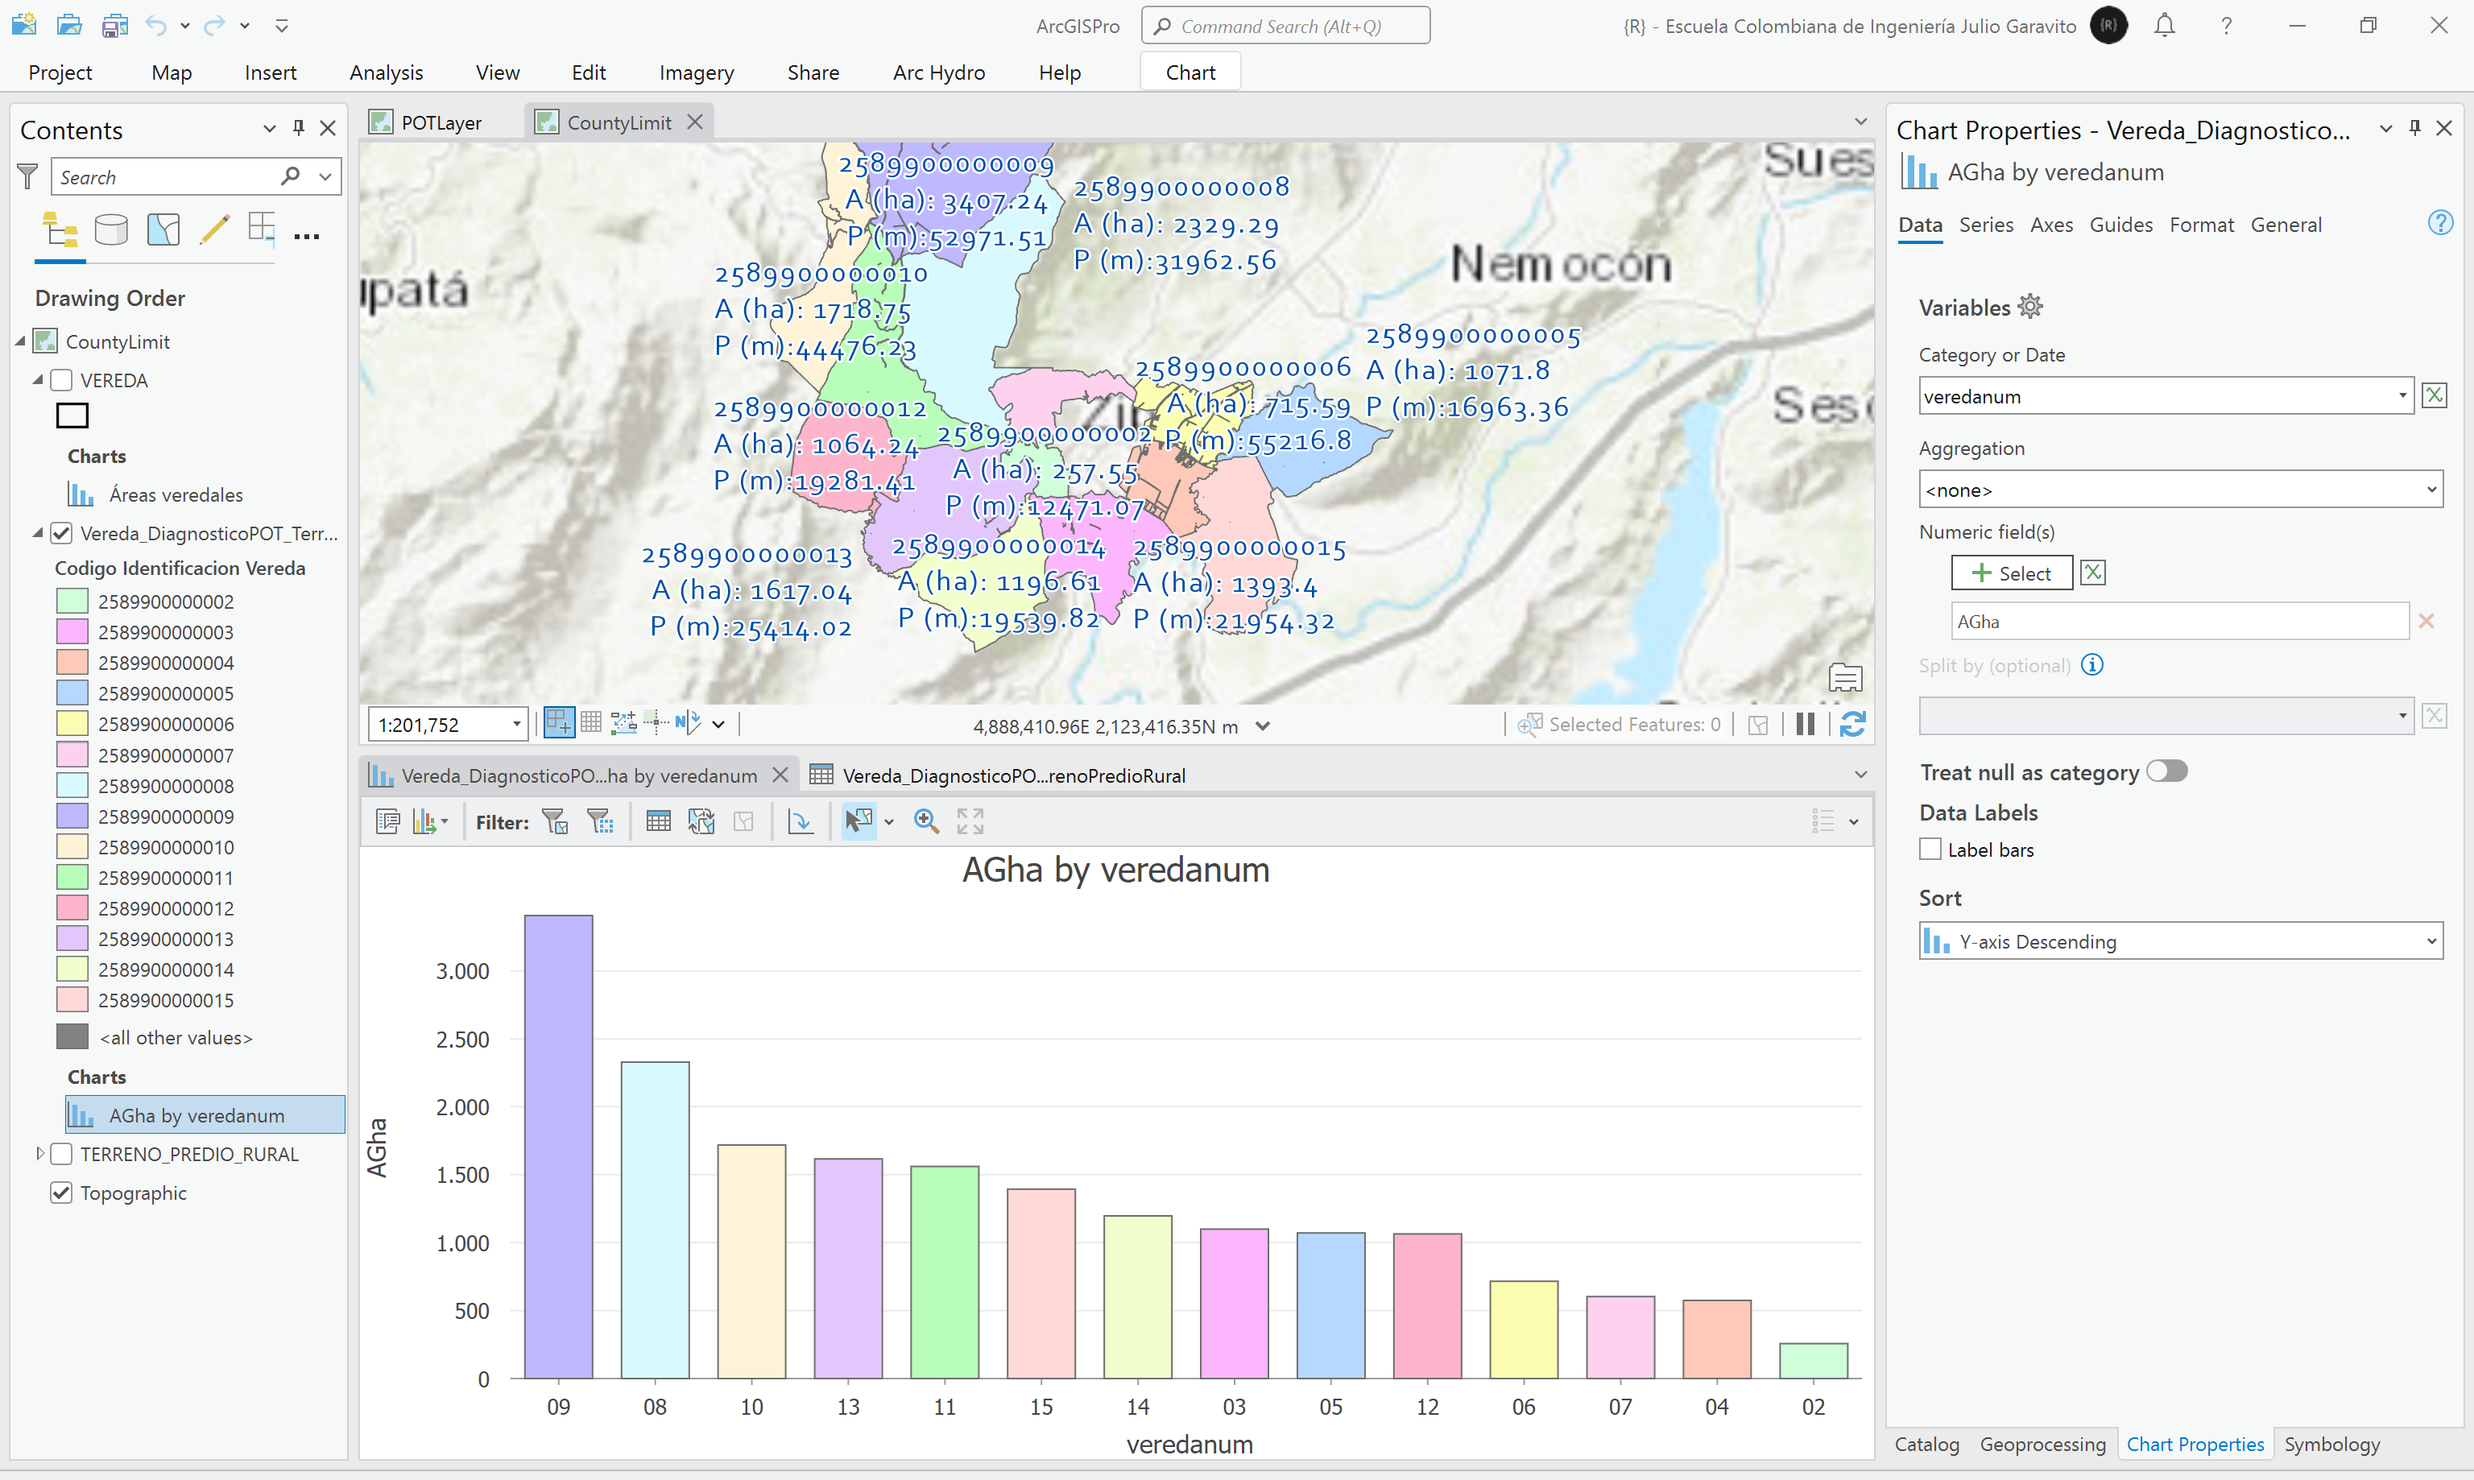
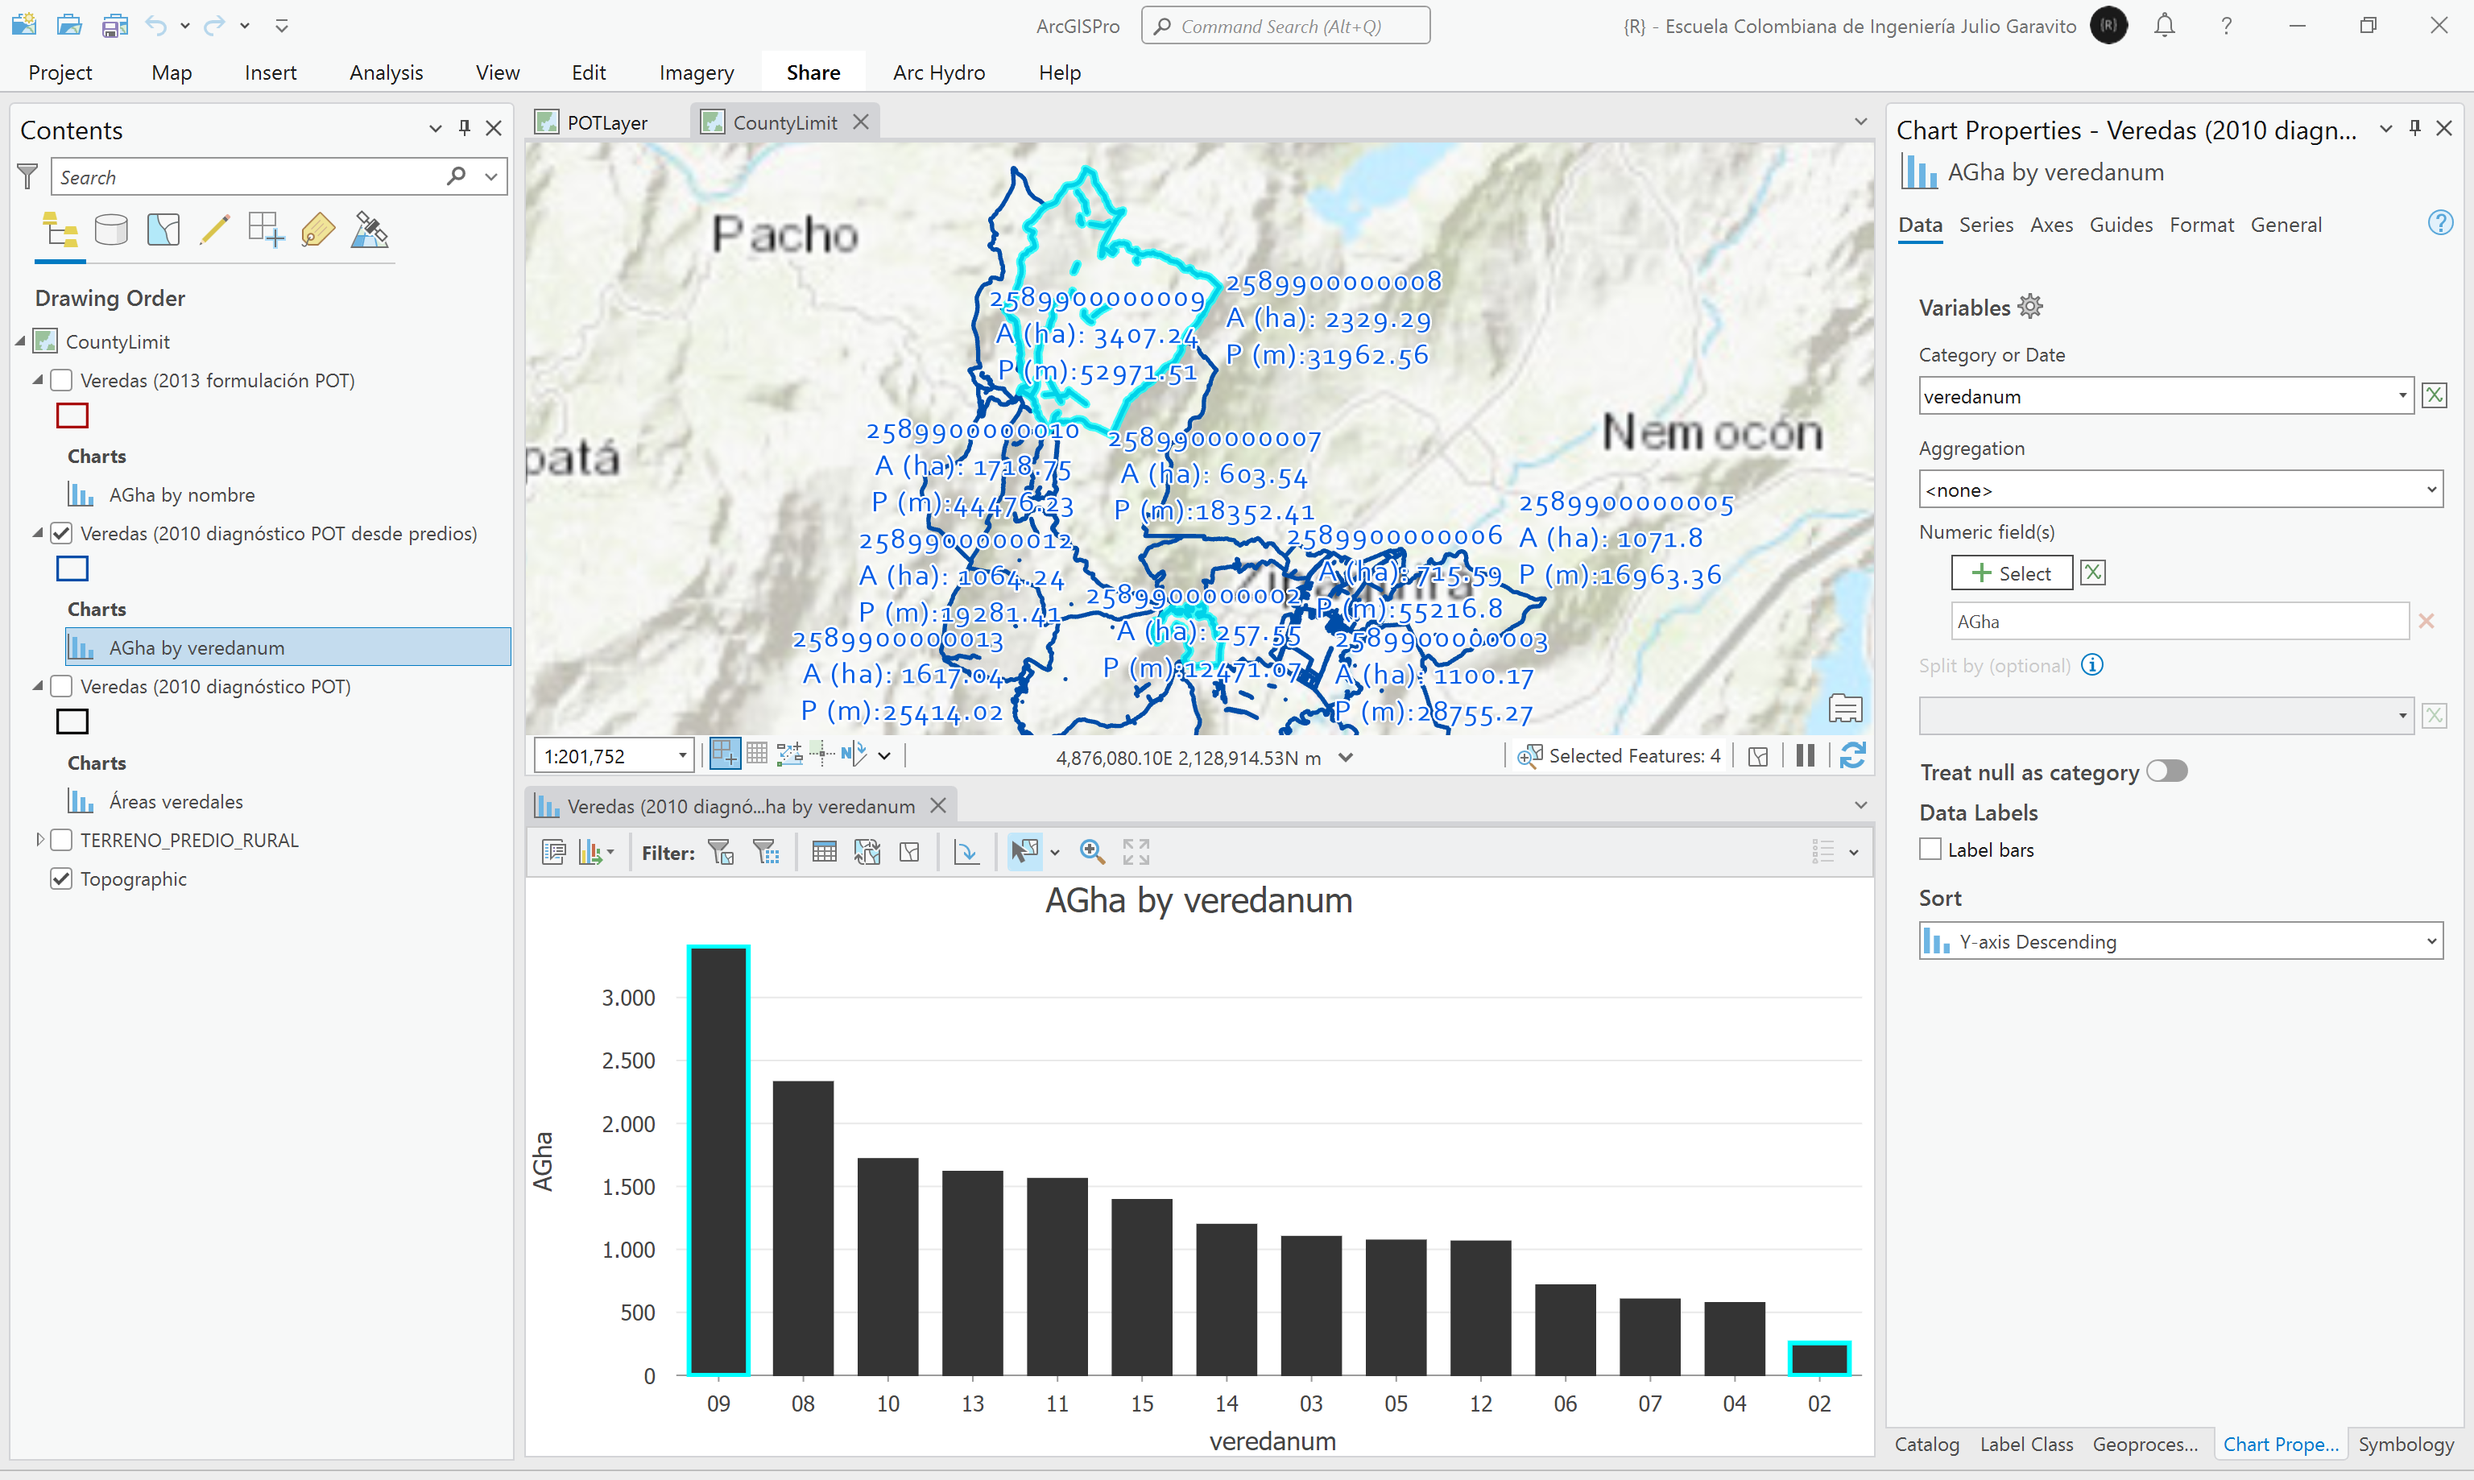
General update.

diff --git a/activity/CountyLimit/Readme.md b/activity/CountyLimit/Readme.md
@@ -88,7 +88,7 @@ Incluya un campo adicional tipo entero largo con el nombre `Nodos` y desde el ed
 | JScript  | `[nombre] + "\nA (ha): " + parseFloat([AGha]).toFixed(2) + "\nP (m):" + parseFloat([PGm]).toFixed(2)`                                           |
 
 
-<div align="center"><img src="graph/ArcGISPro_TableLabelAdvanced1.png" alt="R.SIGE" width="100%" border="0" /></div>
+<div align="center"><img src="graph/ArcGISPro_LabelAdvanced1.png" alt="R.SIGE" width="100%" border="0" /></div>
 
 8. En el panel lateral *Contents*, de clic derecho en _VEREDA_ y seleccione la opción _Create Chart / Bar Chart_, cree una gráfica en orden descendente para los valores de área geográfica, podrá observar que la vereda Páramo de Guerrero es la de mayor extensión.
 
@@ -132,7 +132,7 @@ Rotule la capa de veredas utilizando la expresión Arcade: `$feature.vereda_id +
 
 > En la tabla de atributos podrá observar que a partir de la disolución hemos obtenido el conteo de predios en cada vereda, encontrando que la vereda Paso Ancho es la que tiene el mayor número de divisiones prediales con 2775 predios.
 
-<div align="center"><img src="graph/ArcGISPro_TableLabelAdvanced2.png" alt="R.SIGE" width="100%" border="0" /></div>
+<div align="center"><img src="graph/ArcGISPro_LabelAdvanced2.png" alt="R.SIGE" width="100%" border="0" /></div>
 
 > Como observa en la imagen, los valores de área de las veredas calculadas previamente son diferentes a los obtenidos a partir de predios. Para conocer el área correspondiente a vías + corredores de cauces + espacios públicos sin predio catastral, puede restar los valores de estas dos áreas.
 
@@ -148,8 +148,9 @@ Desde la ruta _\R.SIGE\file\data\POT\Anexo_Acuerdo_012_2013\shp\_, agregue la ca
 
 > Para diferenciar las capas de veredas, utilice diferentes colores de borde y desde la tabla de contenido renombre las capas. Por ejemplo, la capa _VEREDA_ de la formulación puede ser renombrada como _Veredas (2013 formulación POT)_. 
 
-<div align="center"><img src="graph/ArcGISPro_Table2.png" alt="R.SIGE" width="100%" border="0" /></div>
-<div align="center"><img src="graph/ArcGISPro_Vereda2Chart.png" alt="R.SIGE" width="100%" border="0" /></div>
+<div align="center"><img src="graph/ArcGISPro_LabelAdvanced3.png" alt="R.SIGE" width="100%" border="0" /></div>
+<div align="center"><img src="graph/ArcGISPro_Table3.png" alt="R.SIGE" width="100%" border="0" /></div>
+<div align="center"><img src="graph/ArcGISPro_Vereda3Chart.png" alt="R.SIGE" width="100%" border="0" /></div>
 
 
 
